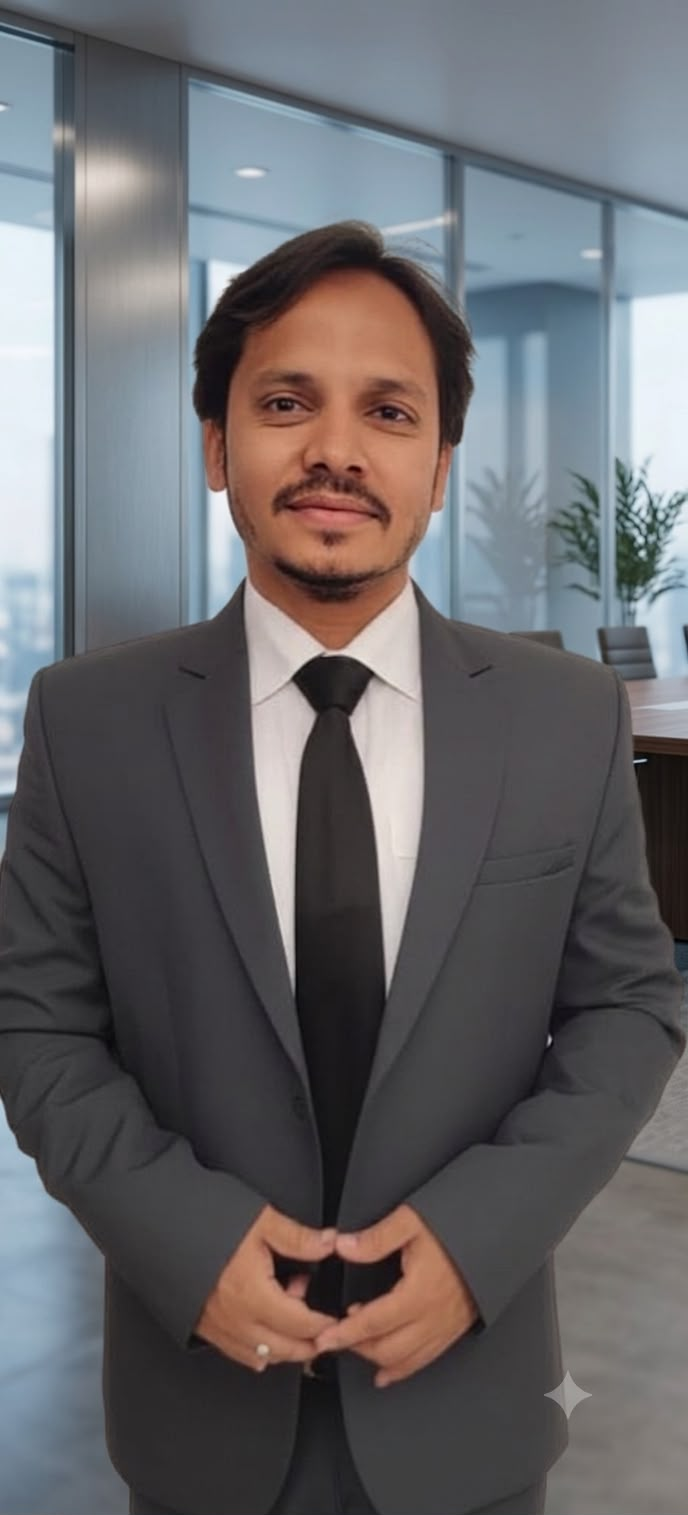
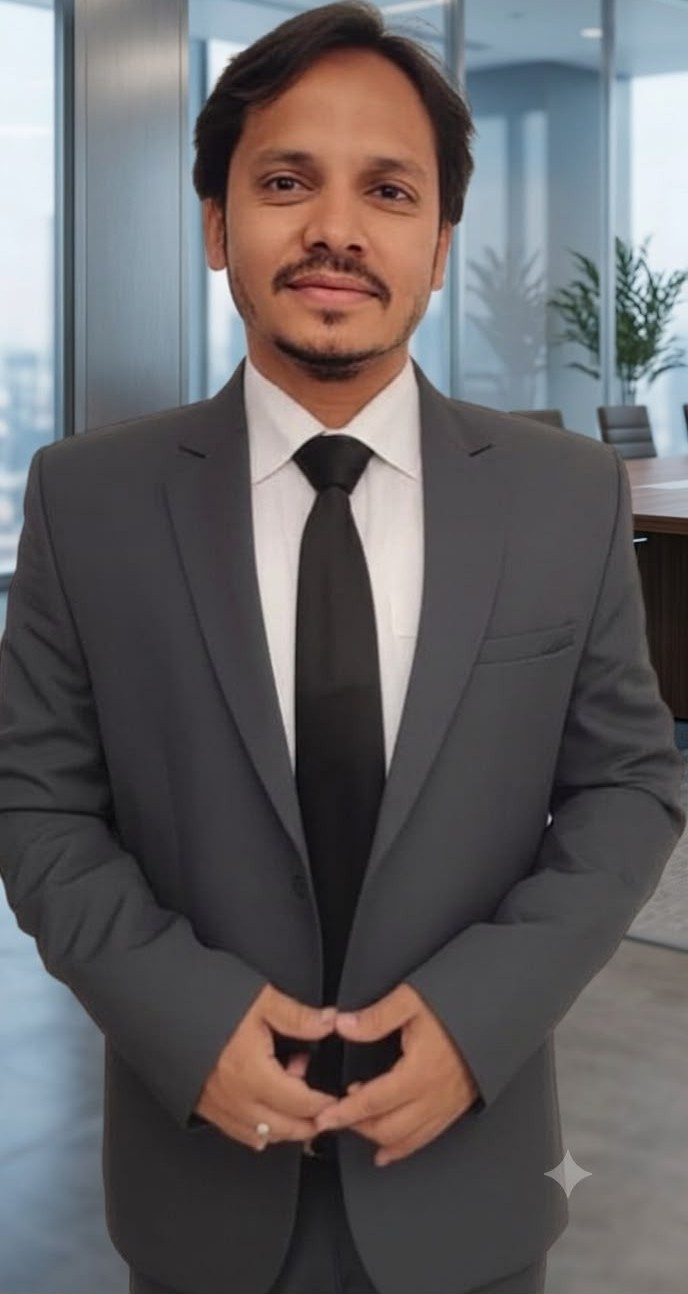
udgusted images of staff

diff --git a/components/team/ProfileModal.tsx b/components/team/ProfileModal.tsx
@@ -65,7 +65,7 @@ export default function ProfileModal({
                 src={member.image}
                 alt={member.name}
                 fill
-                className="object-cover"
+                className="object-cover object-top"
               />
               <div className="absolute bottom-0 left-0 right-0 p-6 bg-gradient-to-t from-charcoal-900/90 to-transparent text-white md:hidden">
                 <h2 className="text-2xl font-bold">{member.name}</h2>
